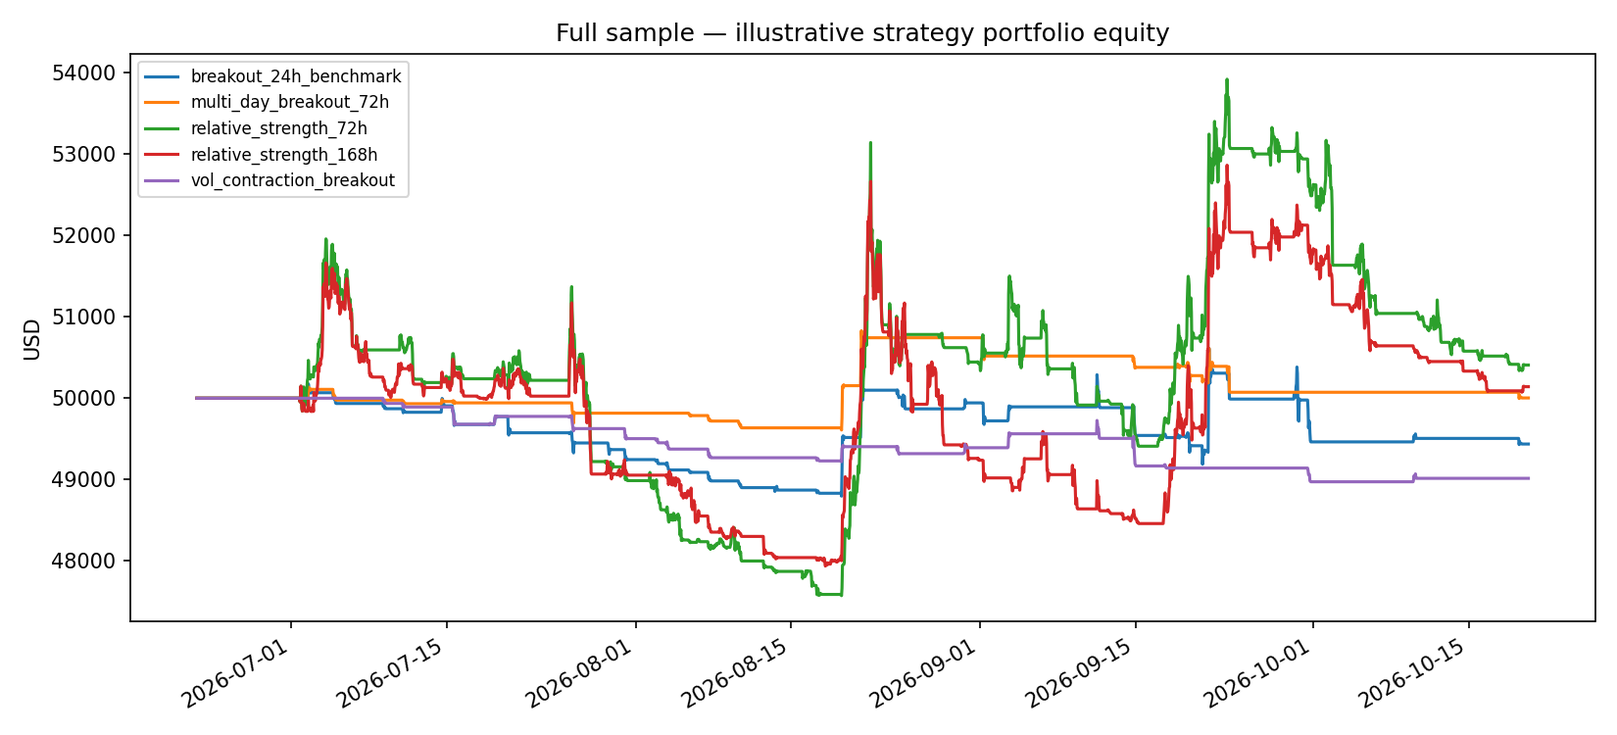
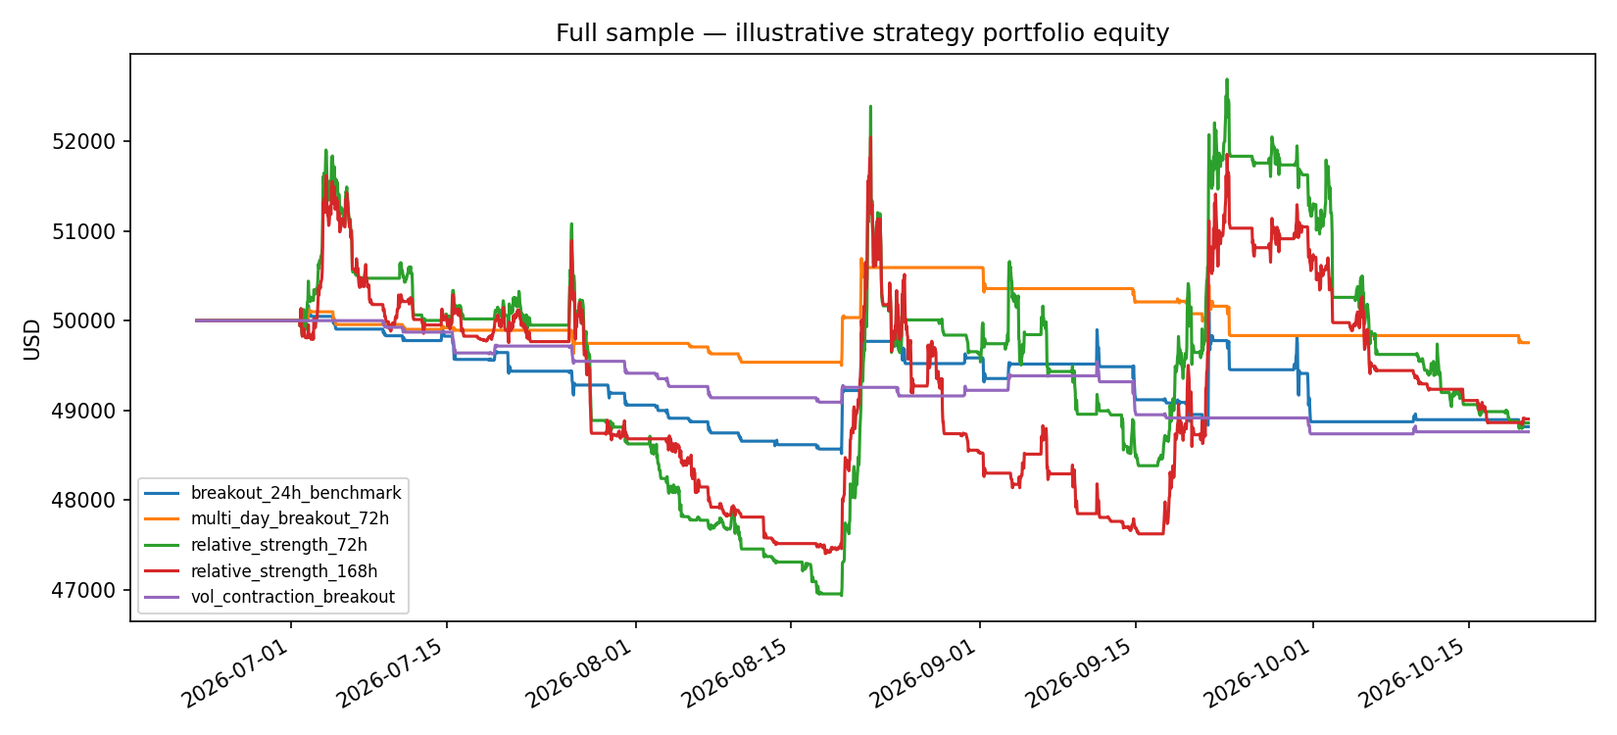
Update README

diff --git a/backtesting_6h_exploratory.py b/backtesting_6h_exploratory.py
@@ -15,7 +15,7 @@ SYMBOLS = ["BTCUSDT", "ETHUSDT", "DOGEUSDT", "SHIBUSDT", "PEPEUSDT", "FLOKIUSDT"
 TRADED = [s for s in SYMBOLS if s != "BTCUSDT"]
 INITIAL_CAPITAL = 50_000.0
 DAYS_HISTORY = 120
-FEE_AND_SLIPPAGE_PER_SIDE = 0.001  # 0.20% of traded notional per side; change after verification
+FEE_AND_SLIPPAGE_PER_SIDE = 0.002  # 0.20% of traded notional per side; change after verification
 MAX_EXPOSURE = 0.30
 MAX_POSITIONS = 3
 REBALANCE_HOURS = 6

diff --git a/README.md b/README.md
@@ -1,305 +1,119 @@
-# BTC-Gated Momentum: Volatility-Filtered Breakout Research
+# BTC-Gated Momentum
 
-**Independent quantitative strategy research | Python | October 2026**
+**Systematic trading strategy research | Python · pandas · NumPy | October 2026**
 
-A systematic, long-only cryptocurrency strategy investigating whether combining **Bitcoin trend confirmation**, **24-hour price breakouts**, and a **relative realised-volatility filter** can improve the selection of momentum trades. The model converts hourly OHLC data into ranked asset candidates and risk-bounded target portfolio weights.
+Independent research and implementation of a long-only cryptocurrency momentum strategy combining a **Bitcoin market-regime gate**, **24-hour price breakouts**, and **relative realised-volatility screening**. The project produces risk-bounded portfolio targets and evaluates the hypothesis using historical Binance spot data.
 
-> **Research status:** Signal construction and portfolio-target generation are implemented. A fully reproducible, fee-adjusted historical *portfolio* performance report is being prepared. Performance cells marked `TBD` have intentionally not been estimated or attributed to this strategy without supporting evidence.
+> **Project scope:** This repository documents my independent strategy research and subsequent historical simulation. The signal module does **not** place orders. A separate team-built execution system was responsible for competition trades; historical Binance results are **not** Roostoo realised performance.
 
 ## At a glance
 
-| Component | Specification |
+| Feature | Design |
 | --- | --- |
-| Strategy name | `btc_gated_momentum` |
-| Frequency | Hourly, using completed candles |
-| Direction | Long only |
-| BTC filter | Latest BTC close above its 48-hour simple moving average |
-| Entry candidate | Latest close exceeds highest high of the prior 24 hourly candles |
-| Volatility condition | Current 24-hour realised volatility below the median of the previous 168 estimates |
-| Ranking | Highest trailing 24-hour return among qualifying candidates |
-| Positioning | Up to 3 assets, 10% target weight per asset |
-| Maximum targeted exposure | 30%; remaining 70–100% in cash |
-| Output | Portfolio target weights; **no orders placed by the research signal script** |
+| Market regime | BTC close above its 48-hour simple moving average |
+| Breakout | Asset close above the highest high of the previous 24 completed candles |
+| Volatility screen | Latest 24-hour realised volatility below the median of the **preceding** 168 estimates |
+| Ranking | Descending trailing 24-hour return |
+| Portfolio | Long-only; up to three assets at 10% target weight each |
+| Exposure | At most 30% invested; unused weight held in cash |
+| Signal data | Completed, synchronised hourly OHLC observations |
+| Historical experiment | Signals reviewed and portfolio targets updated at six-hour intervals |
 
-## 1. Research question and hypothesis
+## Research hypothesis
 
-**Research question:** Can BTC trend confirmation and low *relative* realised volatility help filter 24-hour upside breakouts in cryptocurrency markets?
+A simple price breakout may produce false positives when the broader cryptocurrency market is weak or an individual asset is experiencing elevated volatility. I investigated whether requiring **(1) a positive BTC trend** and **(2) below-median relative realised volatility** could improve the selection of momentum candidates versus a basic 24-hour breakout benchmark.
 
-The research begins with three observations:
+The hypothesis is an empirical question, not a claim of established trading alpha.
 
-1. **Breakout momentum:** A closing price above a recent trading range may signal persistent buying interest, but false breakouts are common.
-2. **Market context:** Altcoin momentum may be sensitive to the broader direction of Bitcoin, so BTC serves as a simple market gate.
-3. **Relative volatility:** Comparing an asset's current volatility with its own recent distribution may help distinguish breakouts occurring under different risk conditions.
+## Strategy construction
 
-**Hypothesis:** Requiring a supportive BTC trend and below-median relative volatility may improve the quality of momentum-based candidate selection compared with an unfiltered breakout rule. This remains a hypothesis to evaluate rather than a claim of established trading alpha.
+At the close of each completed hourly candle:
 
-**Scope:** This is hourly systematic trading research, not high-frequency trading, market making, or arbitrage.
+1. **Apply the market gate.** Permit long entries only when BTC closes above its trailing 48-hour simple moving average.
+2. **Identify breakouts.** Require a candidate asset's close to exceed the highest *high* of the previous 24 candles; the current candle is excluded from the comparison.
+3. **Screen relative volatility.** Calculate the sample standard deviation of the latest 24 hourly log returns. Require it to be below the median of the previous 168 rolling-volatility estimates (excluding the current estimate).
+4. **Rank and allocate.** Rank eligible assets by 24-hour percentage return. Select up to three and allocate 10% target weight to each. Hold the balance in cash; do not redistribute unused slots.
 
-## 2. My individual contribution
+BTC is a reference market, not a tradable position in the provided signal implementation. The default candidate universe is ETH, DOGE, SHIB, PEPE, FLOKI and BONK, quoted against USD in the signal interface. The Binance research experiment uses corresponding **USDT-quoted proxy markets**, which are not identical to Roostoo USD quotes.
 
-I independently formulated the central trading hypothesis and designed the primary **BTC-gated momentum** signal and portfolio-construction rules, including:
+### Signal validation and safety
 
-- A BTC trend gate based on a 48-hour simple moving average.
-- A prior-24-hour high breakout condition, excluding the current candle from the reference range.
-- A relative-volatility condition using a 24-hour rolling estimate and the previous 168 estimates as its historical comparison window.
-- Cross-asset ranking using trailing 24-hour returns.
-- Long-only portfolio targets capped at 10% per selected asset and 30% aggregate target exposure.
-- Python-based signal generation, input validation, and structured target-weight output as documented below.
+`strategy.py` rejects missing or non-positive OHLC values, duplicate pair/timestamp records, missing BTC reference data, unsynchronised markets, gaps in the hourly time series and insufficient observations. In normal signal mode, it also rejects incomplete or stale latest candles. It returns **target weights only**—no API credentials, trading orders or autonomous execution.
 
-This repository focuses on **the independent signal research and evaluation**. It does not claim authorship of the team's separate trading bot, execution infrastructure, or other members' analysis.
+## Historical backtesting
 
-## 3. Trading universe and portfolio design
+`backtesting_6h_exploratory.py` evaluates five research variants using approximately 120 days of Binance spot hourly data: a 24-hour breakout benchmark, a 72-hour breakout, 72-hour and 168-hour relative-strength models, and the volatility-contraction breakout described above.
 
-`BTC/USD` is used as the **reference market**, not a selected position in the provided signal implementation.
+The experiment evaluates signals with a six-hour rebalancing schedule, applies positions from the **following** hourly open, and uses an approximate weight-based portfolio-return calculation. The simulation does not reproduce real order-book execution, partial fills, spread, market impact or drift-aware cash-and-holdings accounting.
 
-The research signal's documented default eligible universe is:
+### Selected exploratory result
 
-`ETH/USD`, `DOGE/USD`, `SHIB/USD`, `PEPE/USD`, `FLOKI/USD`, `BONK/USD`.
+An **earlier historical run** of the volatility-contraction breakout produced:
 
-The set is configurable using the script's `--pairs` option. It is a predefined research universe, **not** a dynamic liquidity or market-capitalisation screen. Availability and tradability require separate checks in an execution system.
+| Metric | Earlier six-hour exploratory run |
+| --- | ---: |
+| Final-period simulated return | **+0.896%** |
+| Simulated P&L on $50,000 | **+$448.06** |
+| Final-period maximum drawdown | **0.363%** |
+| Final-period Sharpe ratio | **4.480** |
+| Assumed total execution cost | **0.20% of traded notional per side** |
 
-| Rule | Implementation |
-| --- | --- |
-| Maximum positions | 3 |
-| Target allocation per selected asset | 10% of portfolio |
-| Maximum combined asset allocation | 30% |
-| Unallocated weight | Held as cash target |
-| Fewer than 3 qualified assets | Do not redistribute unused allocation |
-| No qualified assets or BTC gate fails | 100% cash target |
+**Interpretation:** These figures are a *previously observed exploratory outcome*, **not** verified or reproducible out-of-sample performance, and **not** realised competition P&L. Other runs and evaluation configurations produced negative returns. This run was observed during iterative research, so selecting it retrospectively does not establish predictive skill.
 
-These constraints bound *intended exposure*, not actual live holdings or realised drawdowns.
+**Reproducibility note:** The original six-hour research script selects its 120-day historical window relative to execution time, so its market sample and evaluation boundaries change as time passes. Furthermore, the published script's fee parameter and the retained `crypto_three_strategy_results/all_strategy_metrics.csv` may reflect a **different run** from the +0.896% observation. The code and attached CSV therefore **should not be represented as reproducing the positive figure**. A rigorous replication would require the exact historical candles, a fixed end date, and the original 0.20%-per-side assumptions.
 
-## 4. Strategy methodology
+The retained numerical output, where provided, is available at [`crypto_three_strategy_results/all_strategy_metrics.csv`](crypto_three_strategy_results/all_strategy_metrics.csv), along with the [equity-curve chart](crypto_three_strategy_results/equity_curves.png). Those artifacts document their own run; they are not evidence for the earlier +0.896% snapshot.
 
-Let $C_{i,t}$ and $H_{i,t}$ denote the close and high of asset $i$ at completed hourly candle $t$.
+## Repository structure
 
-### 4.1 BTC regime gate
-
-Allow candidate selection only when:
-
-$$
-C_{\mathrm{BTC},t}>\frac{1}{48}\sum_{j=0}^{47}C_{\mathrm{BTC},t-j}.
-$$
-
-If the condition is not met, the strategy outputs zero target allocation for all eligible altcoins.
-
-### 4.2 Breakout confirmation
-
-Require the current completed candle's close to exceed the **highest high of the previous 24 candles**:
-
-$$
-C_{i,t}>\max(H_{i,t-1},\ldots,H_{i,t-24}).
-$$
-
-The current candle is deliberately excluded from the breakout reference window.
-
-### 4.3 Relative realised-volatility screen
-
-Calculate hourly log returns:
-
-$$
-r_{i,t}=\ln\left(\frac{C_{i,t}}{C_{i,t-1}}\right).
-$$
-
-Compute the sample standard deviation of the latest 24 hourly log returns:
-
-$$
-v_{i,t}=\operatorname{SD}(r_{i,t-23},\ldots,r_{i,t}).
-$$
-
-Require:
-
-$$
-v_{i,t}<\operatorname{Median}(v_{i,t-1},\ldots,v_{i,t-168}).
-$$
-
-The benchmark excludes the current volatility estimate. This tests **low volatility relative to recent history**, not a continuously declining volatility trend.
-
-### 4.4 Ranking and target construction
-
-For candidates satisfying all filters, calculate trailing 24-hour simple return:
-
-$$
-R_{i,t}^{24h}=\frac{C_{i,t}}{C_{i,t-24}}-1.
-$$
-
-Rank qualified assets by descending return, select up to three, and set each selected asset's target weight to **0.10**. All remaining weight is assigned to cash.
-
-The portfolio targets are **signals**; they do not imply that an exchange order has been submitted or filled.
-
-## 5. Python implementation
-
-The implementation described in the original research notes is `vol_contraction_signal.py`, with the principal function:
-
-```python
-latest_targets(candles, allowed_pairs)
+```text
+BTC-Gated-Momentum/
+├── strategy.py                         # Validated, signal-only target allocation model
+├── backtesting_6h_exploratory.py       # Six-hour historical research simulation
+├── requirements.txt
+├── README.md
+└── crypto_three_strategy_results/
+    ├── all_strategy_metrics.csv        # Retained experiment metrics
+    └── equity_curves.png               # Retained experiment chart
 ```
 
-> **Repository maintenance note:** If the published file is renamed to `btc_gated_momentum.py`, update the command below and all references to match the actual committed filename. The strategy label `btc_gated_momentum` does **not** by itself establish that such a file exists.
+### Run the research code
 
-The code uses `pandas` and `numpy` for rolling indicators, signal checks, ranking, and weight generation. Its key expressions include:
+```bash
+pip install -r requirements.txt
+python backtesting_6h_exploratory.py
+```
 
-| Expression | Purpose |
-| --- | --- |
-| `btc.rolling(48).mean()` | BTC trend reference |
-| `high.shift(1).rolling(24).max()` | Previous-high breakout threshold |
-| `np.log(close / close.shift(1)).rolling(24).std()` | 24-hour realised volatility |
-| `rv24.shift(1).rolling(168).median()` | Historical relative-volatility benchmark |
-| `close / close.shift(24) - 1` | Momentum ranking |
-| Top-three selection and fixed weights | Target portfolio construction |
+The historical runner fetches Binance data over the network and writes results into `crypto_three_strategy_results/`. Its output may differ from previously saved figures because the download window rolls forward.
 
-### Input data
-
-Provide a long-format CSV containing:
+To run the **standalone signal generator**, provide a CSV of completed, contiguous hourly candles with the following columns:
 
 ```text
 timestamp,pair,open,high,low,close
 ```
 
-The documented signal validator expects UTC **candle-start timestamps**, completed and recent hourly bars, strictly positive numeric price fields, no missing or duplicate timestamps, and synchronised series across included markets. The documented minimum is **220 contiguous hourly observations** per included market, including BTC. Invalid or stale input may produce a validation error instead of a signal.
-
-### Output
-
-A structured JSON object containing fields such as:
-
-```text
-signal_as_of_completed_candle_utc
-btc_uptrend
-target_weights
-ranked_entries
-cash_target_weight
-mode = "SIGNAL_ONLY_NO_TRADES"
-```
-
-### Running the signal script
-
 ```bash
-pip install numpy pandas
-python vol_contraction_signal.py --csv hourly_ohlc.csv
+python strategy.py --csv hourly_ohlc.csv
 ```
 
-To specify a smaller research universe:
+The signal script checks data freshness for normal use. It requires at least 220 synchronised hourly observations and returns a JSON object containing the BTC regime flag, ranked candidates, target weights and target cash weight. It does not execute trades. The CLI filename is `strategy.py`; `backtesting_6h_exploratory.py` is a separate vectorised research implementation.
 
-```bash
-python vol_contraction_signal.py --csv hourly_ohlc.csv --pairs ETH/USD DOGE/USD PEPE/USD
-```
+## Individual contribution and hackathon context
 
-**Important:** This script validates freshness against the current clock, so an older historical CSV cannot simply be supplied to it for backtesting. A chronological backtest needs a controlled simulation clock or a separately implemented historical engine.
+I independently developed the **BTC-gated breakout and volatility-contraction research hypothesis**, Python signal-generation logic, asset-ranking method and capped portfolio target construction. I subsequently investigated it through historical simulation and benchmark comparisons.
 
-## 6. Historical evaluation
+This work was undertaken in the context of the **HK vs AU vs IN Quant Trading Hackathon**, where my **team placed 9th among 190 teams (top 5%)**. The team ranking is a **collective competition outcome**, not evidence that this particular model earned the leaderboard return. Order execution and bot infrastructure were developed separately; this repository does not claim authorship of those components.
 
-The objective of backtesting is to test whether the hypothesis survives transaction costs and changes in market conditions. Backtesting **does not** retroactively explain or reproduce the hackathon leaderboard result.
+## Limitations and next steps
 
-### 6.1 Historical Backtesting
+- **Sample dependence:** Moving data windows and short chronological segments can materially change observed returns.
+- **Selection bias:** The positive exploratory run was identified after examining multiple outcomes; it is not an untouched holdout result.
+- **Execution simplification:** The six-hour simulator approximates weight-based returns and does not model live fills, order-book spreads, partial fills or liquidity constraints.
+- **Market mismatch:** Historical Binance USDT candles are proxies, not Roostoo market prices or a replay of the competition.
+- **Risk:** Long-only crypto assets may be correlated, and a 30% target exposure cap does not guarantee limited realised losses.
 
-The original BTC-Gated Momentum strategy combines Bitcoin market-regime filtering, 24-hour price breakouts, realised-volatility contraction and cross-asset momentum ranking.
-
-Historical experiments used Binance hourly cryptocurrency data and compared the strategy against four alternative momentum-based approaches.
-
-Best observed exploratory result: +0.896% final-period return, with 0.363% maximum drawdown, in an earlier six-hour rebalancing simulation using a 0.20% estimated execution cost per side.
-
-This result is reported as an exploratory observation rather than verified out-of-sample profitability. Subsequent tests using different simulation assumptions and historical samples produced negative returns.
-
-The research illustrates the sensitivity of systematic trading performance to execution assumptions, rebalancing frequency and sample selection. Historical Binance results do not represent realised returns from the Roostoo competition.
-
-
-| Metric | Standalone strategy backtest |
-| --- | --- |
-| Data source | **TBD — insert provider and dataset reference** |
-| Historical period | **TBD — insert start/end dates (UTC)** |
-| Eligible assets actually tested | **TBD — insert universe** |
-| In-sample / validation / held-out periods | **TBD — insert chronological split** |
-| Gross total return | **TBD** |
-| Net total return | **TBD** |
-| Sharpe ratio | **TBD — recalculate from periodic net portfolio returns** |
-| Sortino ratio | **TBD** |
-| Calmar ratio | **TBD** |
-| Maximum drawdown | **TBD** |
-| Number of trades | **TBD** |
-| Portfolio turnover | **TBD** |
-| Fees, spreads and slippage | **TBD — state actual assumptions** |
-| Benchmark return | **TBD — specify benchmark** |
-
-**To insert:** a labelled equity curve, drawdown chart, trade count and reproducibility instructions, once generated and verified.
-
-### 6.2 Evaluation protocol
-
-A defensible portfolio simulation should:
-
-1. Use only information observable by the end of candle $t$ to compute its signal.
-2. Simulate execution no earlier than a subsequent executable price, not the same candle's retrospectively known close.
-3. Track cash and holdings through time, including exits when target weights fall to zero.
-4. Include explicit transaction fees, bid–ask spread and slippage assumptions, and show sensitivity to those assumptions.
-5. Reserve a chronological held-out segment, without tuning parameters on the final test results.
-6. Publish the observation period, return frequency, trade count, and actual backtest implementation so results can be reproduced.
-
-### 6.3 Risk-adjusted metrics — pending calculation
-
-- **Sharpe:** mean periodic excess portfolio return divided by its standard deviation, annualised using the stated return frequency.
-- **Sortino:** excess return over a stated target relative to downside deviation.
-- **Calmar:** annualised compounded return divided by the absolute maximum drawdown, where the observation period supports a meaningful estimate.
-
-Use a consistent **net-of-cost portfolio-equity series** for these calculations. If a statistic is undefined or misleading due to sample size or a zero denominator, report that directly rather than inserting a fabricated number.
-
-## 7. Market-regime sensitivity research
-
-The companion research investigated whether results differed across **BTC uptrend, sideways, downtrend and high-volatility conditions**. The historical regime classification described in the original notes used BTC 24-hour and 168-hour moving averages and a realised-volatility threshold derived from training data.
-
-This analysis is **diagnostic and descriptive**: it does not itself change the strategy's live target allocations.
-
-### Interpretation
-
-Initial regime comparisons identified **weaknesses and negative returns in several research and validation subsets**, supporting further investigation of regime dependence and false breakouts. The currently available README also reports some positive results in its *final-test* regime subsets, so the full table must be reconciled against the underlying CSV before a single definitive summary is published.
-
-The practical research takeaway is that **regime sensitivity deserves testing, and no consistently profitable regime has yet been established across evaluation periods**. Negative findings are retained as evidence rather than edited out.
-
-**To verify before publishing detailed figures:**
-
-- [ ] Confirm the exact strategy identifier in the regime CSV (`btc_gated_momentum` versus prior research labels).
-- [ ] Reconcile research / validation / final-test observations against the latest generated CSV.
-- [ ] Confirm that reported returns reflect portfolio accounting and the declared trading-cost assumptions.
-- [ ] Insert a small table or plot of **verified** regime results, including negative values.
-- [ ] Confirm that high-volatility group sizes are adequate to interpret.
-
-**Optional supporting documentation:** link to a verified regime analysis file once it exists at the committed relative path (for example, `Market_regime_research/README.md`).
-
-## 8. Risk management and limitations
-
-**Implemented at the signal level**
-
-- Long-only selection and BTC market gate.
-- Maximum three selected positions.
-- Fixed 10% allocation per selected asset, with 30% maximum aggregate **target** exposure.
-- Cash target for unused allocation.
-- Required completed, recent and synchronised market data; rejection of selected invalid inputs.
-
-**Not established by the signal script**
-
-- Successful live order placement, fills, position reconciliation or execution quality.
-- Standalone stop-loss, take-profit or intrabar liquidation rules.
-- Protection against false breakouts, crypto-asset correlation, thin liquidity, or spread widening.
-- Historical profitability or satisfactory risk-adjusted performance.
-
-The original notes also identify data checks that could be extended, including OHLC internal-consistency validation and enforcement of exact hour-boundary timestamps.
-
-## 9. Hackathon context — separate from strategy performance
-
-This research originated during the **HK vs AU vs IN Quant Trading Hackathon (October 2026)**. The team reached **9th among 190 teams (top 5%)**, according to the reported leaderboard placement. **[ADD: link or screenshot of the final official ranking, and verify final versus interim status.]**
-
-My individual contribution was the core research hypothesis and signal/portfolio model documented here. The team's separately developed live execution bot was **not a faithful end-to-end implementation of this research universe and strategy**, and executed very few trades during the competition. As a result, the leaderboard placement **must not be interpreted as measured live returns attributable to this standalone model**.
-
-This repository intentionally does not include or claim authorship of the team bot. Live contest metrics are not presented as a backtest of `btc_gated_momentum`.
-
-## 10. Next research steps
-
-- [ ] Commit and verify the standalone strategy source and input-data example (with no credentials or private data).
-- [ ] Implement / document a reproducible, chronological portfolio backtest using the intended universe.
-- [ ] Calculate **net return, Sharpe, Sortino, maximum drawdown, trade count and turnover** from a consistent portfolio return series.
-- [ ] Compare breakout-only, breakout + BTC gate, breakout + volatility screen and the full combined model on the same sample.
-- [ ] Reconcile market-regime CSV labels and figures, retaining negative results.
-- [ ] Run robustness checks for nearby lookback windows, costs, universe selection and out-of-sample performance.
-- [ ] Add a final leaderboard evidence link and a clearly labelled backtest chart.
+For stronger evidence, freeze the data window, archive the input data and parameter settings, test execution-cost sensitivity and evaluate a genuinely unseen forward period without selecting configurations using that period's results.
 
 ---
 
-**Research integrity note:** The purpose of this repository is to document strategy design, implementation and empirical evaluation. A high hackathon ranking is a team competition outcome, not independent evidence that this particular strategy was profitable in live trading. Any future numerical results should be supported by reproducible code, data and stated assumptions.
+**Research integrity:** The project demonstrates strategy formulation, signal engineering, risk-bounded portfolio construction and critical assessment of historical evidence. Exploratory simulation results should not be interpreted as guaranteed or live trading profitability.
